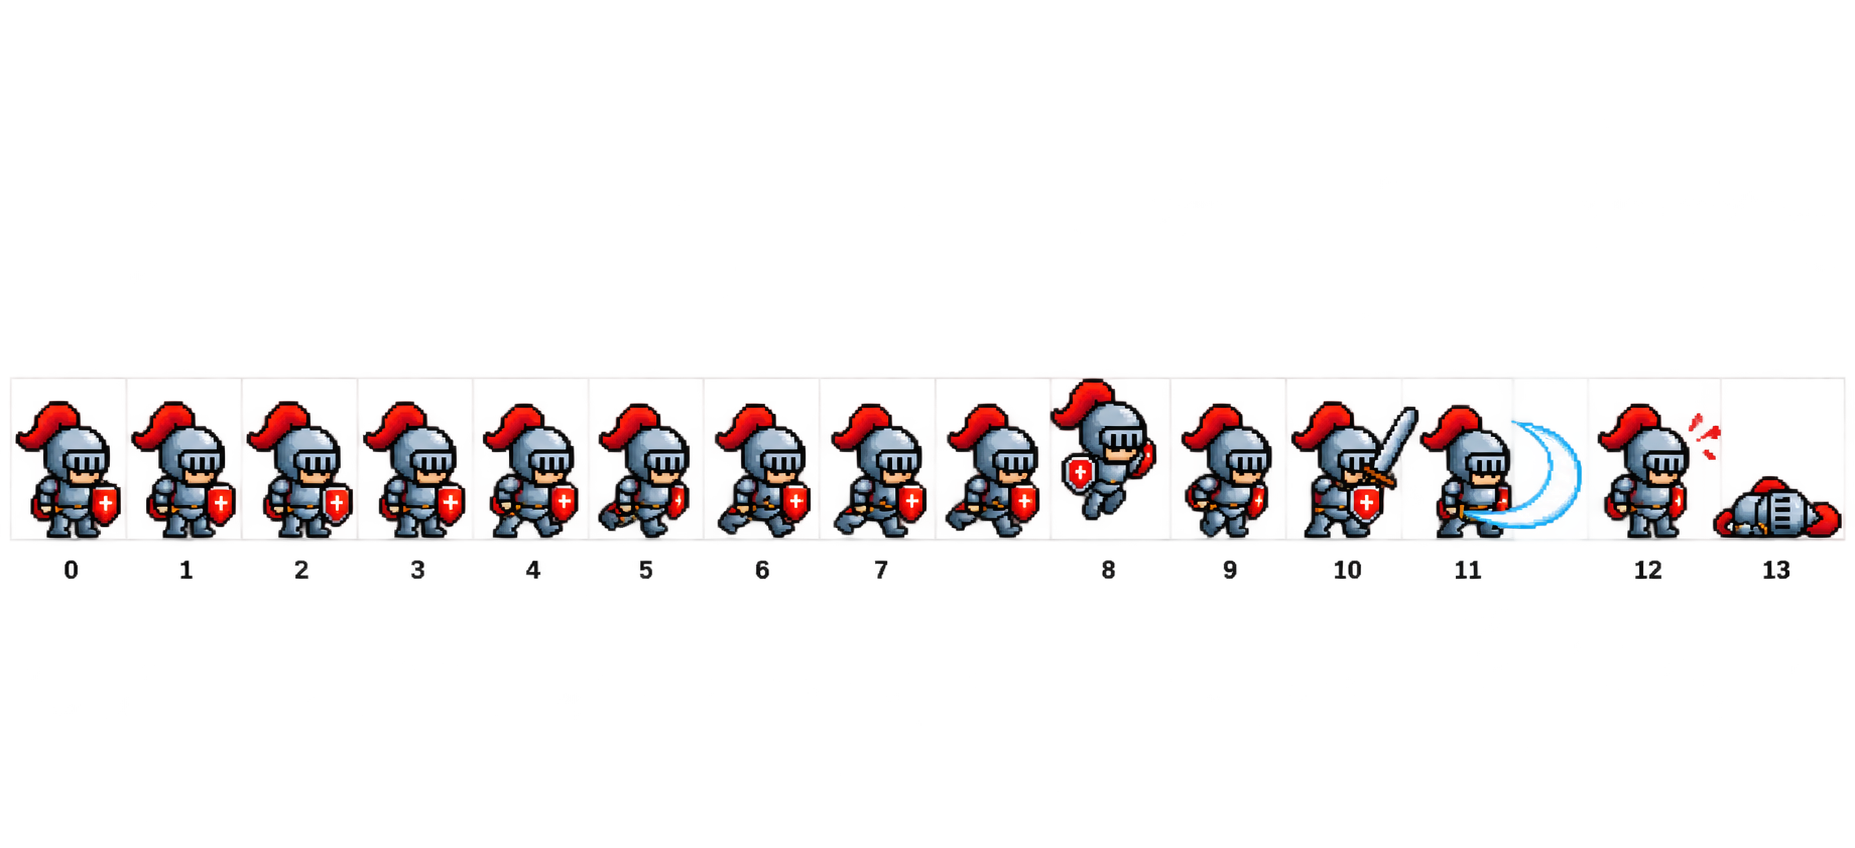
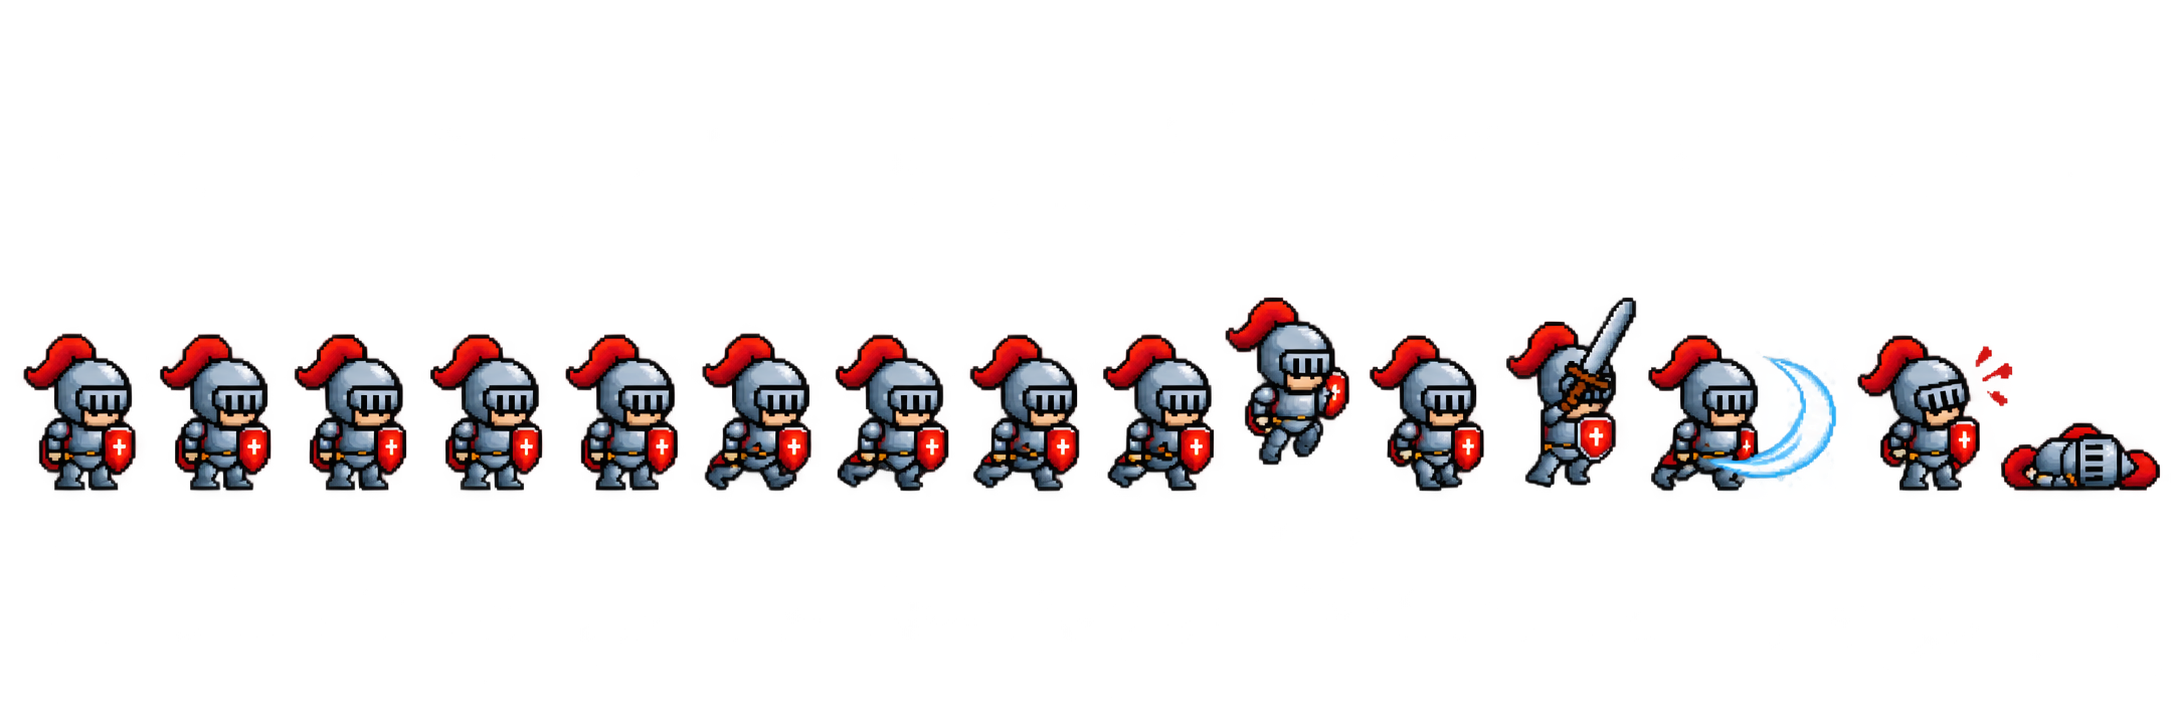
Update knight animation frames for new sprite

Changed region(s): [[0.0, 0.395, 1.0, 0.6989]]

diff --git a/src/scenes/BootScene.ts b/src/scenes/BootScene.ts
@@ -13,18 +13,20 @@ export class BootScene extends Phaser.Scene {
   create() {
     const texture = this.textures.get('knight_silver');
 
-    // В этом PNG нет ровной сетки. Вырезаем кадры внутри рамок, без подписей.
+    // Координаты кадров в PNG размером 2172×724. x растёт вправо.
     // 0–3: покой, 4–7: ходьба, 8: прыжок, 9: падение.
-    // Лишнюю позу без номера между ходьбой и прыжком пропускаем.
-    const frameX = [12, 129, 245, 361, 476, 592, 708, 824, 1055, 1173];
+    // Дополнительную позу перед прыжком пока не используем.
+    const frameX = [20, 156, 291, 427, 562, 698, 832, 965];
     frameX.forEach((x, frame) => {
-      texture.add(frame, 0, x, 381, 112, 158);
+      texture.add(frame, 0, x, 294, 120, 200);
     });
 
-    // Меч выходит за ширину обычного кадра. Сохраняем центр рыцаря,
-    // чтобы при атаке не сдвигались персонаж и его физическое тело.
-    texture.add(10, 0, 1289, 381, 132, 158)!.setTrim(112, 158, 0, 0, 132, 158);
-    texture.add(11, 0, 1405, 381, 181, 158)!.setTrim(112, 158, 0, 0, 181, 158);
+    // Широкие позы и меч помещаем относительно обычного кадра 120×200.
+    // Так смена анимации не меняет центр и размер физического тела.
+    texture.add(8, 0, 1222, 294, 132, 200)!.setTrim(120, 200, -16, 0, 132, 200);
+    texture.add(9, 0, 1366, 294, 120, 200);
+    texture.add(10, 0, 1502, 294, 138, 200)!.setTrim(120, 200, 0, 0, 138, 200);
+    texture.add(11, 0, 1644, 294, 196, 200)!.setTrim(120, 200, 0, 0, 196, 200);
 
     this.anims.create({
       key: 'knight-idle',

diff --git a/src/player/Player.ts b/src/player/Player.ts
@@ -12,7 +12,8 @@ export class Player extends Phaser.Physics.Arcade.Sprite {
     this.setScale(0.4);
     // Размеры тела задаются до масштаба: в игре остаётся прежнее тело 40×56.
     this.body.setSize(100, 140);
-    this.body.setOffset(6, 18);
+    // Над головой оставлено место для поднятого меча; тело стоит у ног.
+    this.body.setOffset(10, 58);
     this.body.setCollideWorldBounds(true);
     this.cursors = scene.input.keyboard!.createCursorKeys();
     this.play('knight-idle');
